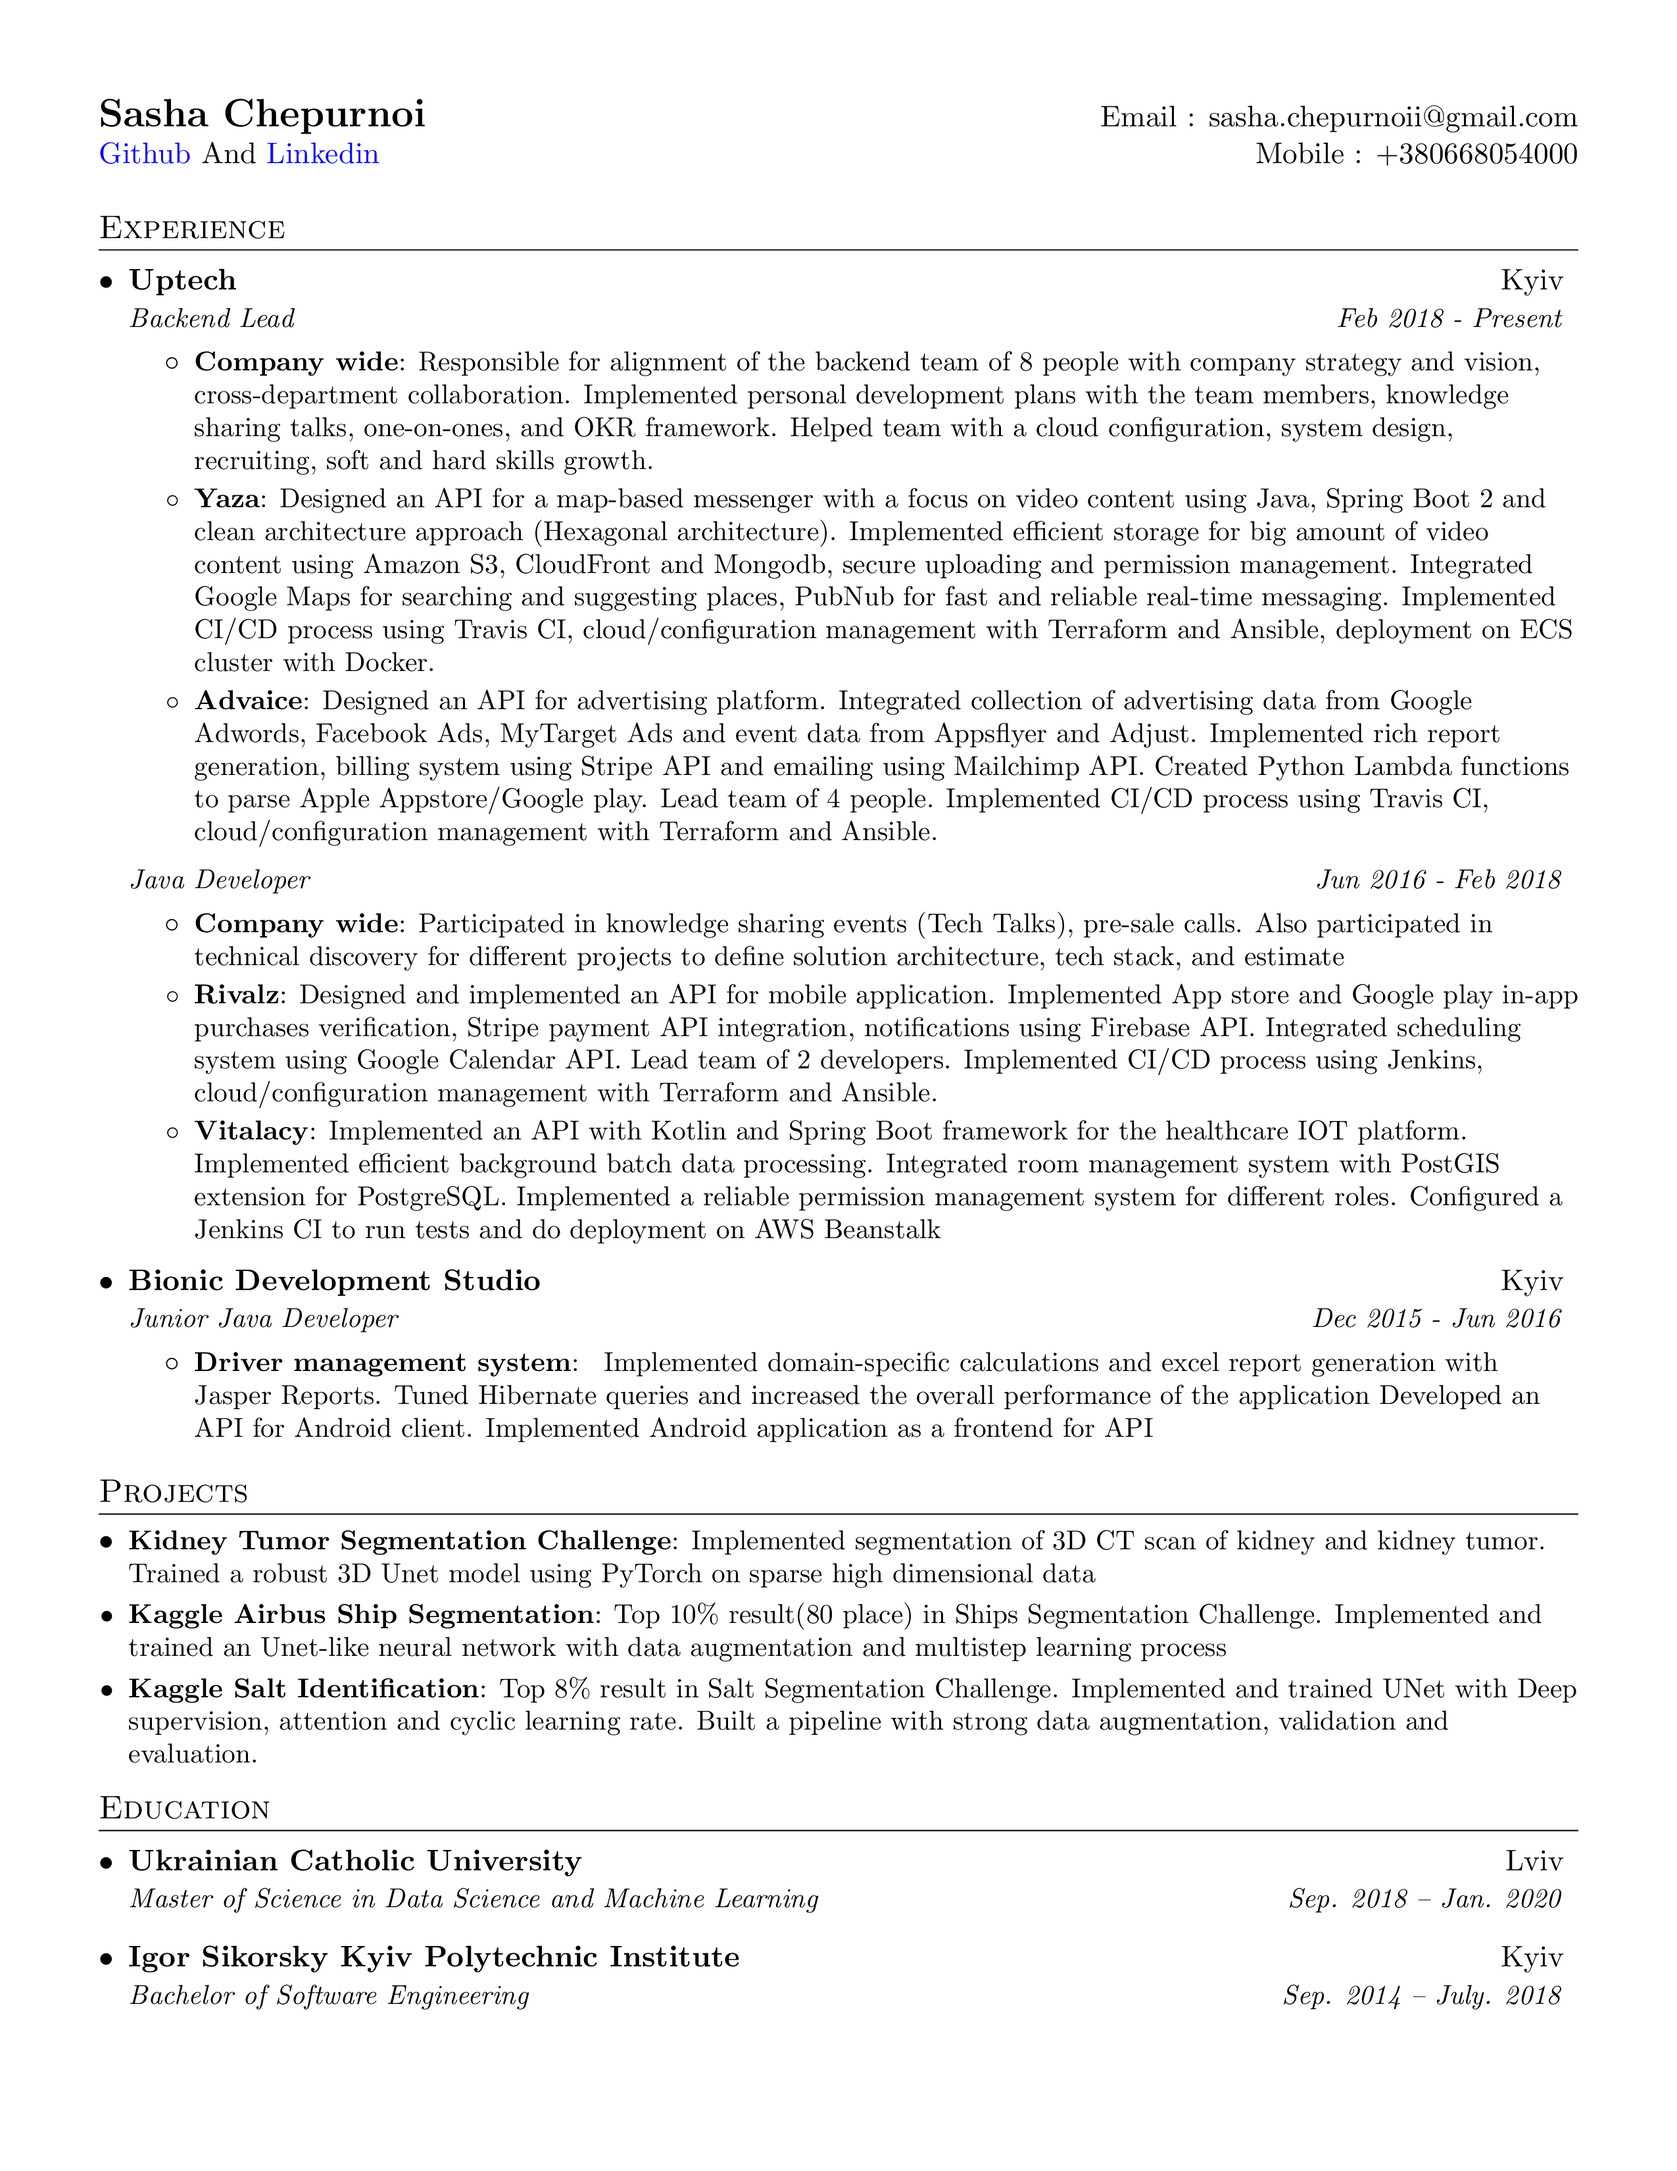
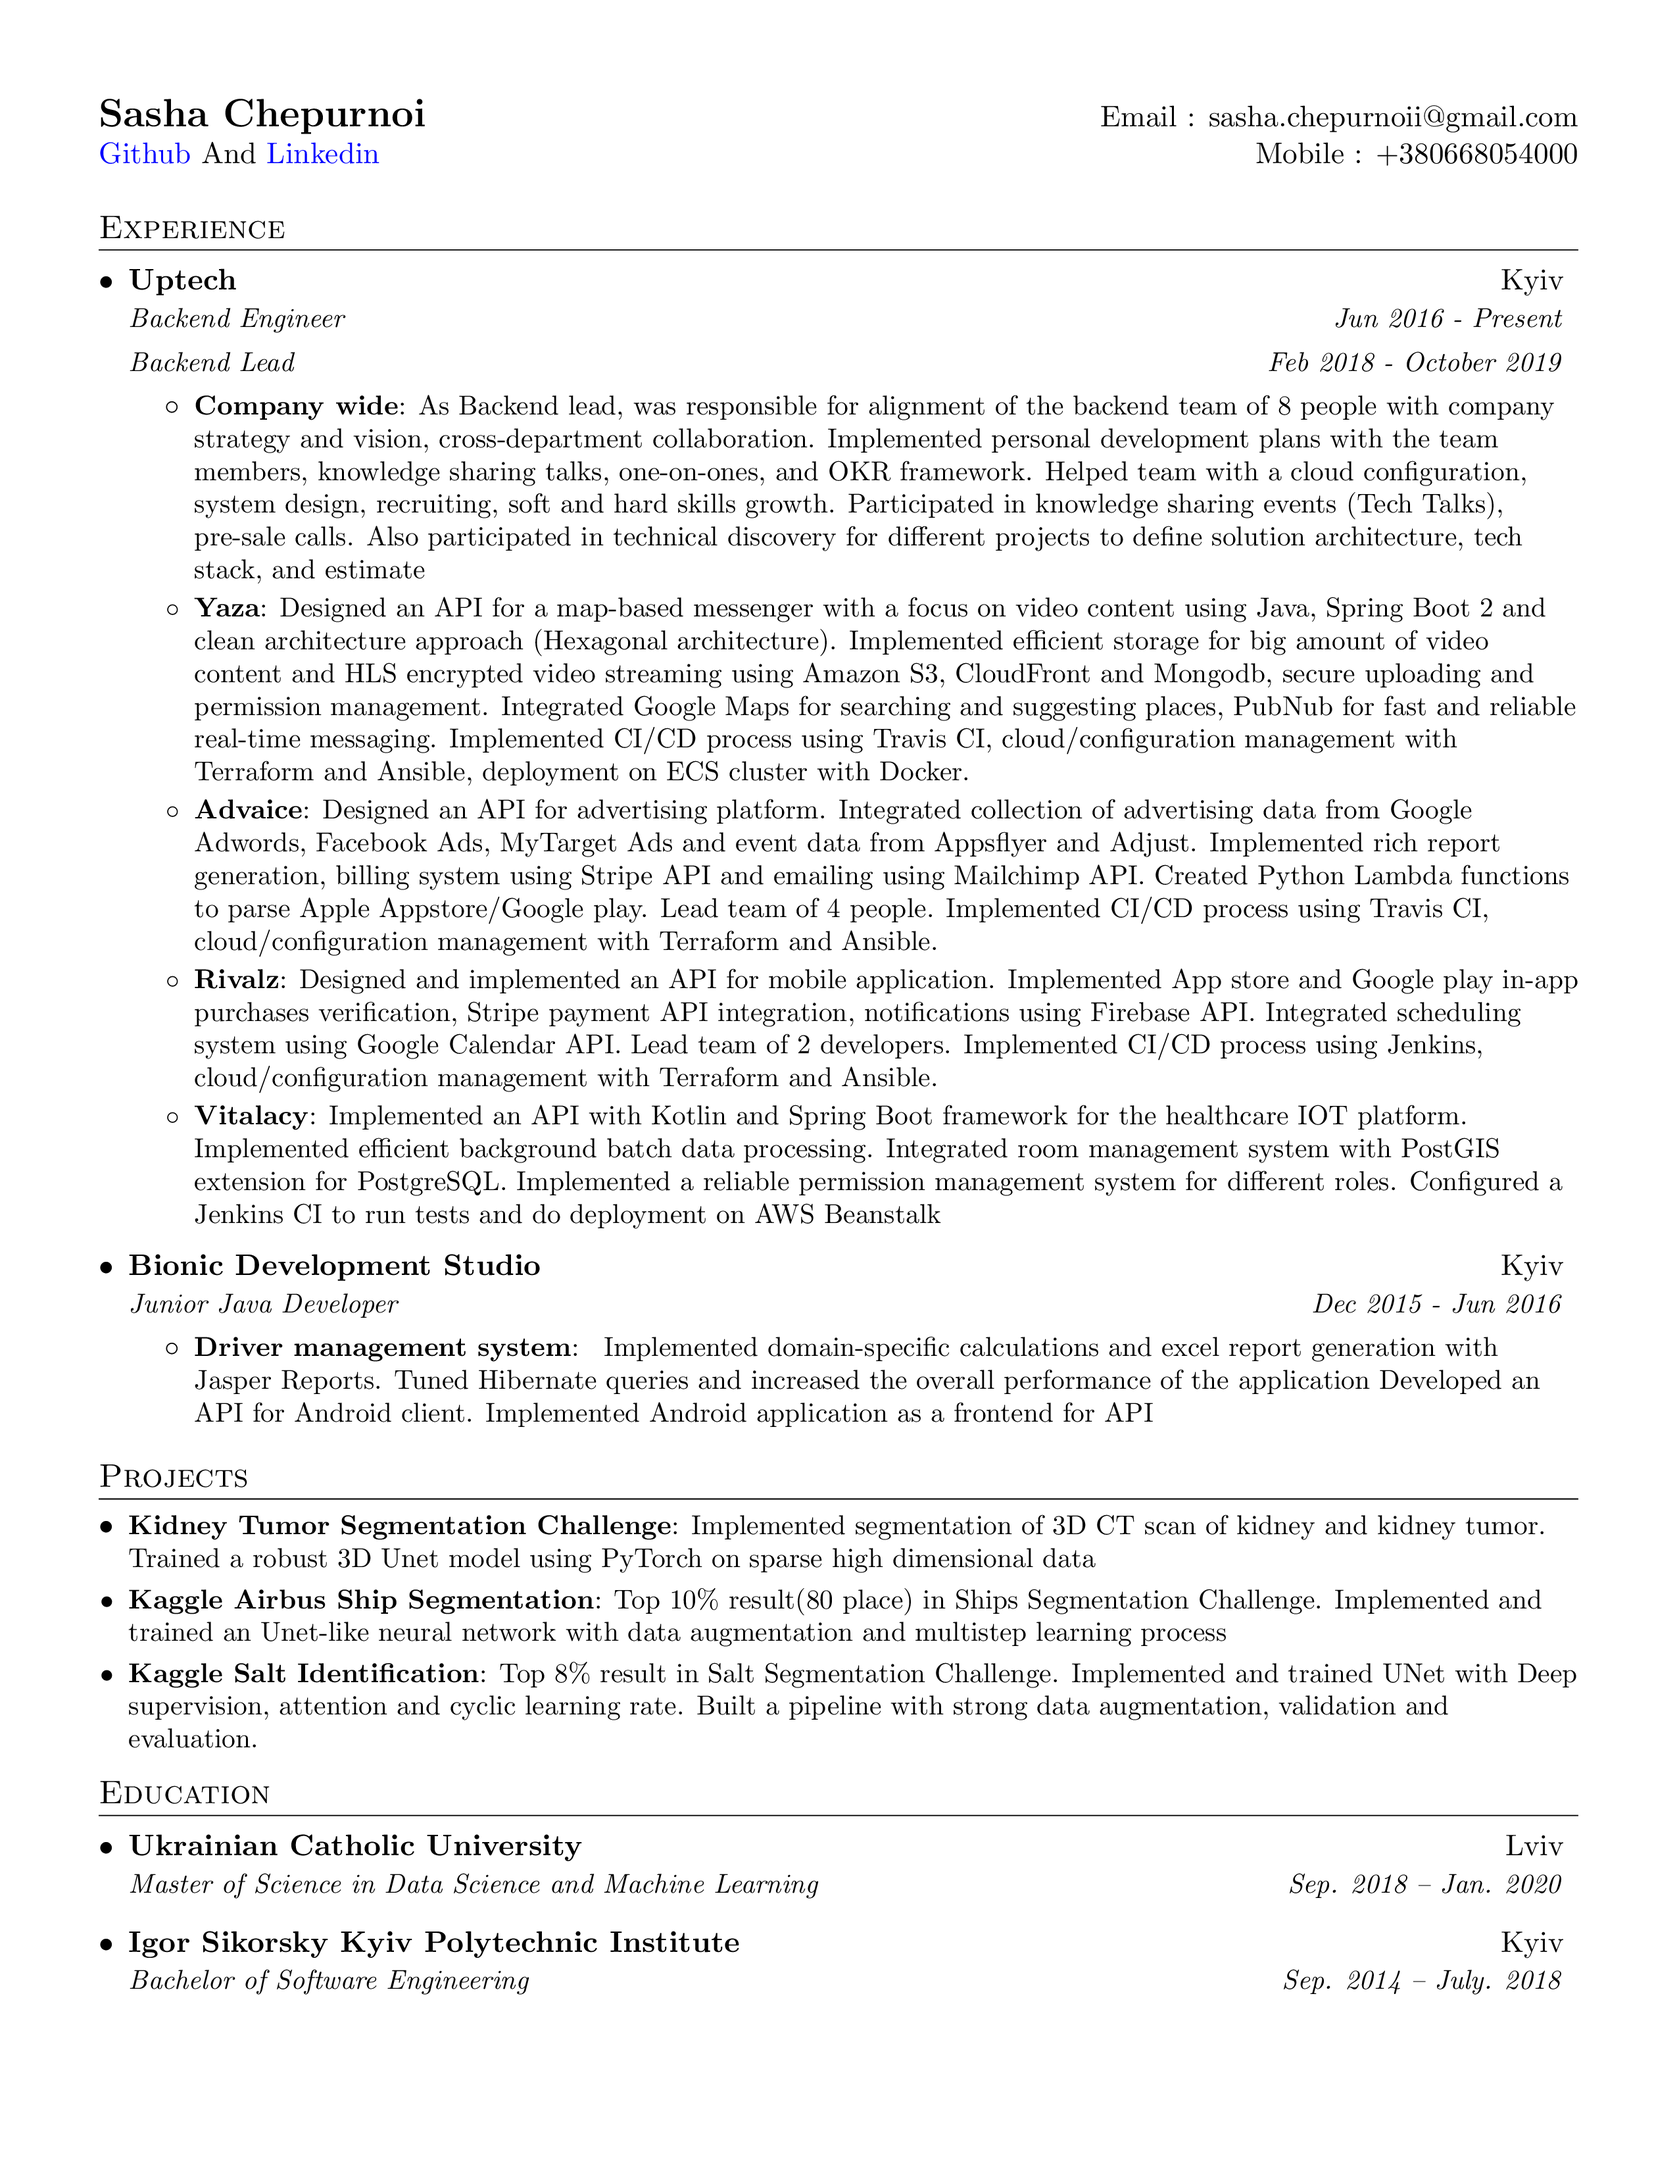
Update resume. Change position + formatting

diff --git a/src/resume.tex b/src/resume.tex
@@ -88,17 +88,21 @@
 
     \resumeSubheading
       {\href{https://uptech.team}{Uptech}}{Kyiv}
-      {Backend Lead}{Feb 2018 - Present}
+      {Backend Engineer}{Jun 2016 - Present}
+
+      \resumeSubheadingPosition
+      {Backend Lead}{Feb 2018 - October 2019}
       \resumeItemListStart
         \resumeItem{Company wide}
-          {Responsible for alignment of the backend team of 8 people with company strategy and vision, cross-department collaboration.
+          {As Backend lead, was responsible for alignment of the backend team of 8 people with company strategy and vision, cross-department collaboration.
           Implemented personal development plans with the team members, knowledge sharing talks, one-on-ones, and OKR framework.
-          Helped team with a cloud configuration, system design, recruiting, soft and hard skills growth.
+          Helped team with a cloud configuration, system design, recruiting, soft and hard skills growth. Participated in knowledge sharing events (Tech Talks), pre-sale calls. 
+          Also participated in technical discovery for different projects to define solution architecture, tech stack, and estimate
           }
         \resumeItem{Yaza}
          {Designed an API for a map-based messenger with a focus on video content using Java, Spring Boot 2 and clean architecture approach (Hexagonal architecture).
-         Implemented efficient storage for big amount of video content using Amazon S3, CloudFront and Mongodb,
-         secure uploading and permission management.
+         Implemented efficient storage for big amount of video content and HLS encrypted video streaming using Amazon S3, CloudFront and Mongodb,
+         secure uploading and permission management. 
          Integrated Google Maps for searching and suggesting places, PubNub for fast and reliable real-time messaging. 
          Implemented CI/CD process using Travis CI, cloud/configuration management with Terraform and Ansible,
          deployment on ECS cluster with Docker.
@@ -112,16 +116,8 @@
           Lead team of 4 people. 
           Implemented CI/CD process using Travis CI, cloud/configuration management with Terraform and Ansible.
           }
-      \resumeItemListEnd
 
-    \resumeSubheadingPosition
-      {Java Developer}{Jun 2016 - Feb 2018}
-      \resumeItemListStart
-        \resumeItem{Company wide}
-          {Participated in knowledge sharing events (Tech Talks), pre-sale calls. 
-          Also participated in technical discovery for different projects to define solution architecture, tech stack, and estimate
-          }
-        \resumeItem{Rivalz}
+          \resumeItem{Rivalz}
         {Designed and implemented an API for mobile application. 
         Implemented App store and Google play in-app purchases verification, 
         Stripe payment API integration, notifications using Firebase API. 
@@ -129,6 +125,7 @@
         Lead team of 2 developers.
         Implemented CI/CD process using Jenkins, cloud/configuration management with Terraform and Ansible.
         }
+        
         \resumeItem{Vitalacy}
         {Implemented an API with Kotlin and Spring Boot framework for the healthcare IOT platform. 
         Implemented efficient background batch data processing. 
